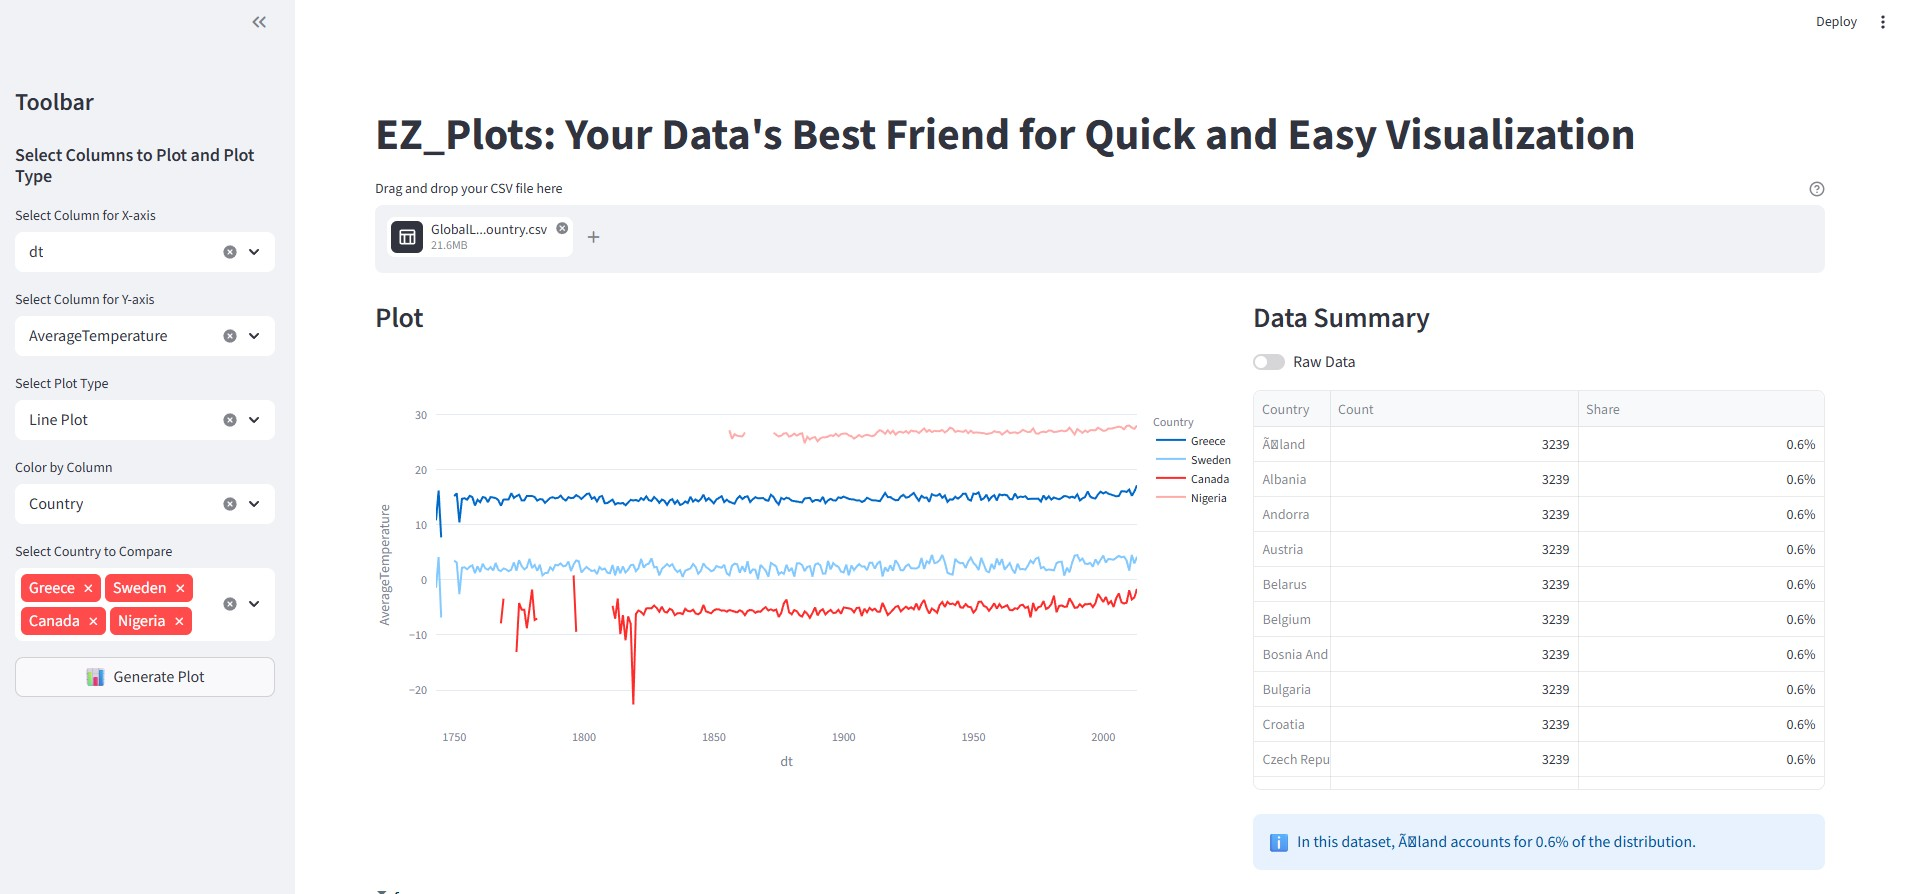
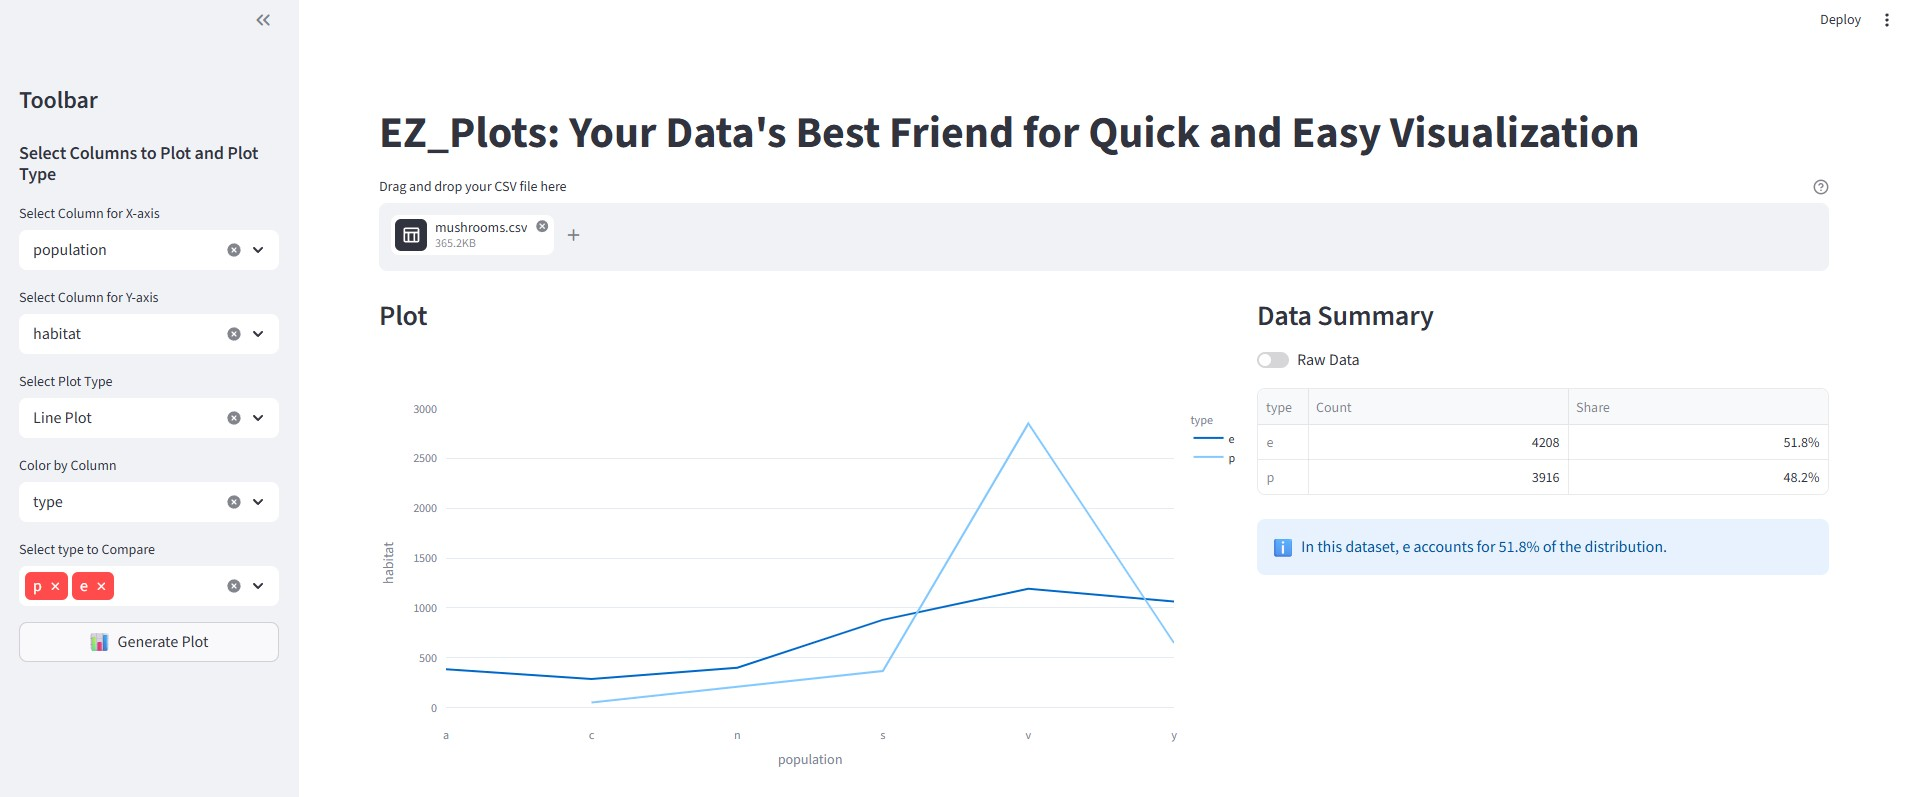
confirmed that some bugs related to colour_by_columndo not exist

diff --git a/main.py b/main.py
@@ -77,7 +77,7 @@ if uploaded_file is not None:
         if plot_type == "Line Plot" and color_by_column:
             selected_items = st.sidebar.multiselect(
                     f"Select {color_by_column} to Compare", 
-                    options=df[color_by_column].fillna("Missing").unique(), # need to work on the nan errors i get when there are nulls in the color by column. 
+                    options=df[color_by_column].fillna("Missing").unique(), 
                     default=df[color_by_column].fillna("Missing").unique()[:5] # Default to the first 5
                 )
             if not selected_items:
@@ -110,15 +110,8 @@ if uploaded_file is not None:
                     df_final = df_grouped[df_grouped[color_by_column].isin(selected_items)] 
                 else:
                     df_final = df_grouped
-                print(df_grouped) 
-                '''for next time:
-                    Variable Initialization: We need to ensure df_grouped and df_final are explicitly reset or redefined at the start of every plot calculation.
-
-                    The "None" Cleanup: We'll make sure the group_cols list is truly emptied of the color variable when the sidebar is cleared.
-
-                    UI Feedback: Ensuring the selected_items (the multiselect) also resets or hides when there is no column to filter by.
-                '''
-                
+                print(df_grouped)
+                                
                 fig = px.line(df_final, x=column_for_X_axis, y=column_for_Y_axis, color=color_by_column)
 
             else: